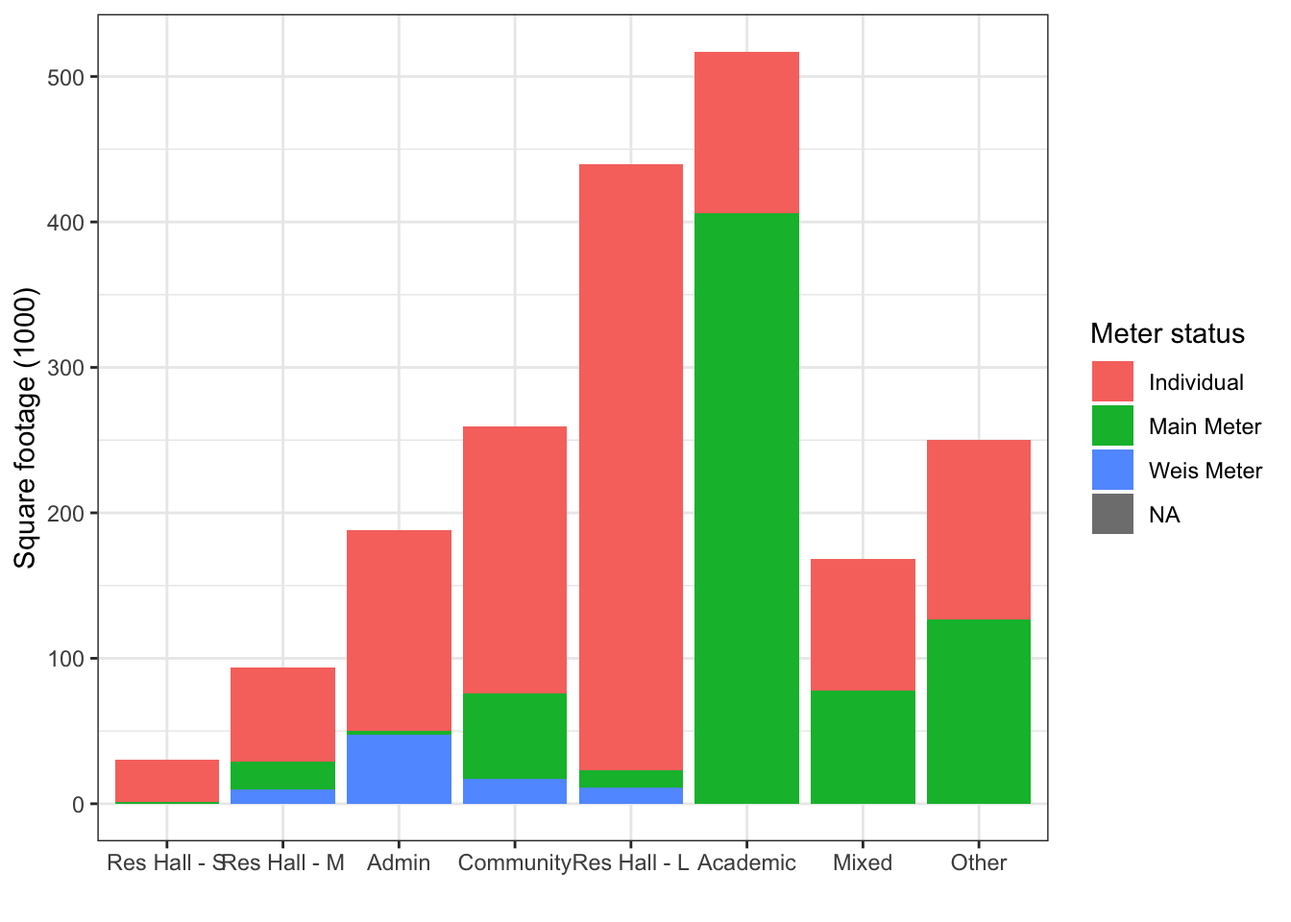
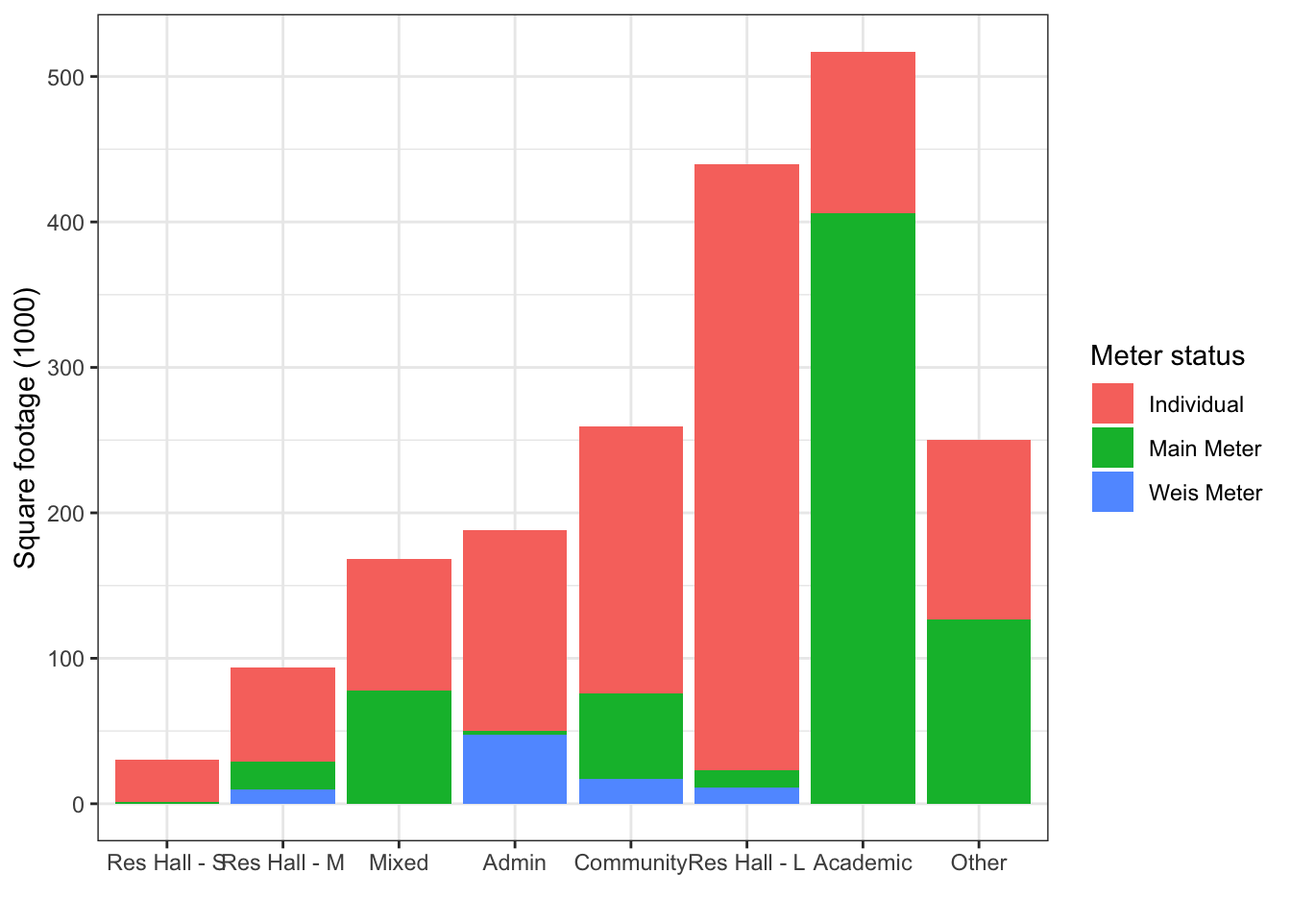
update script to fix issues

diff --git a/docs/data_wrangling_final.html b/docs/data_wrangling_final.html
@@ -525,15 +525,15 @@ project makes it easier to run your code on other machines.</p>
 <div class="panel panel-default">
 <div class="panel-heading">
 <p class="panel-title">
-<a data-toggle="collapse" data-parent="#workflowr-checks" href="#strongRepositoryversionstrongahrefhttpsgithubcommaggiedouglasdickinsonpowertree2791892fbfbb8aa7b2016d98a84effa0bb848813targetblank2791892a">
+<a data-toggle="collapse" data-parent="#workflowr-checks" href="#strongRepositoryversionstrongahrefhttpsgithubcommaggiedouglasdickinsonpowertree2fef6499ccab67994d59850bfe4a806a58283172targetblank2fef649a">
 <span class="glyphicon glyphicon-ok text-success"
 aria-hidden="true"></span> <strong>Repository version:</strong>
-<a href="https://github.com/maggiedouglas/dickinson_power/tree/2791892fbfbb8aa7b2016d98a84effa0bb848813" target="_blank">2791892</a>
+<a href="https://github.com/maggiedouglas/dickinson_power/tree/2fef6499ccab67994d59850bfe4a806a58283172" target="_blank">2fef649</a>
 </a>
 </p>
 </div>
 <div
[2 lines of base64/hex data omitted]
 class="panel-collapse collapse">
 <div class="panel-body">
 <p>
@@ -543,7 +543,7 @@ reproducibility.
 </p>
 <p>
 The results in this page were generated with repository version
-<a href="https://github.com/maggiedouglas/dickinson_power/tree/2791892fbfbb8aa7b2016d98a84effa0bb848813" target="_blank">2791892</a>.
+<a href="https://github.com/maggiedouglas/dickinson_power/tree/2fef6499ccab67994d59850bfe4a806a58283172" target="_blank">2fef649</a>.
 See the <em>Past versions</em> tab to see a history of the changes made
 to the R Markdown and HTML files.
 </p>
@@ -561,15 +561,12 @@ Ignored files:
     Ignored:    .DS_Store
     Ignored:    .Rhistory
     Ignored:    .Rproj.user/
-    Ignored:    data/.DS_Store
     Ignored:    data/FY25 Main Meter Data.xlsx
     Ignored:    data/building_list_FY25_updated.xlsx
     Ignored:    data/graph_data_life_exp.csv
-    Ignored:    keys/.DS_Store
-    Ignored:    output/annual_kwh.csv
+    Ignored:    output/.DS_Store
     Ignored:    output/building_check.csv
     Ignored:    output/building_check.xlsx
-    Ignored:    output/daily_kwh.csv
     Ignored:    output/kwh_annual.csv
     Ignored:    output/kwh_daily.csv
     Ignored:    output/kwh_main_annual.csv
@@ -577,8 +574,7 @@ Ignored files:
 
 Unstaged changes:
     Modified:   analysis/data_wrangling_final.Rmd
-    Modified:   keys/fy25_building_list_updated.csv
-    Modified:   keys/meter_building_key.csv
+    Modified:   keys/housing_counts.csv
 
 </code></pre>
 <p>
@@ -624,6 +620,40 @@ Message
 </tr>
 </thead>
 <tbody>
+<tr>
+<td>
+Rmd
+</td>
+<td>
+<a href="https://github.com/maggiedouglas/dickinson_power/blob/2fef6499ccab67994d59850bfe4a806a58283172/analysis/data_wrangling_final.Rmd" target="_blank">2fef649</a>
+</td>
+<td>
+maggiedouglas
+</td>
+<td>
+2026-02-24
+</td>
+<td>
+updated to integrate individual meter data
+</td>
+</tr>
+<tr>
+<td>
+html
+</td>
+<td>
+<a href="https://rawcdn.githack.com/maggiedouglas/dickinson_power/2fef6499ccab67994d59850bfe4a806a58283172/docs/data_wrangling_final.html" target="_blank">2fef649</a>
+</td>
+<td>
+maggiedouglas
+</td>
+<td>
+2026-02-24
+</td>
+<td>
+updated to integrate individual meter data
+</td>
+</tr>
 <tr>
 <td>
 Rmd
@@ -848,8 +878,8 @@ associated GHG emissions</li>
 <pre><code>── Attaching core tidyverse packages ──────────────────────── tidyverse 2.0.0 ──
 ✔ dplyr     1.1.4     ✔ readr     2.1.5
 ✔ forcats   1.0.0     ✔ stringr   1.5.1
-✔ ggplot2   3.5.1     ✔ tibble    3.2.1
-✔ lubridate 1.9.3     ✔ tidyr     1.3.1
+✔ ggplot2   3.5.0     ✔ tibble    3.2.1
+✔ lubridate 1.9.3     ✔ tidyr     1.3.0
 ✔ purrr     1.0.2     
 ── Conflicts ────────────────────────────────────────── tidyverse_conflicts() ──
 ✖ dplyr::filter() masks stats::filter()
@@ -884,10 +914,10 @@ occu_agg &lt;- occupants %&gt;%
   mutate(sem_yr = paste(semester, year)) %&gt;%
   filter(sem_yr %in% c(&quot;Fall 2024&quot;, &quot;Spring 2025&quot;)) %&gt;%
   group_by(NAME, sem_yr) %&gt;%
-  summarize(occupants = sum(occupants),
+  summarize(occupants = sum(occupants, na.rm = T),
             n = n()) %&gt;%
   group_by(NAME) %&gt;%
-  summarize(occupants = mean(occupants))</code></pre>
+  summarize(occupants = mean(occupants, na.rm = T))</code></pre>
 <pre><code>`summarise()` has grouped output by &#39;NAME&#39;. You can override using the
 `.groups` argument.</code></pre>
 <pre class="r"><code># store annual totals for kWh
@@ -994,7 +1024,7 @@ buildings_sum &lt;- buildings %&gt;%
 <pre class="r"><code>joined &lt;- kwh_annual %&gt;%
   left_join(key, by = &quot;meter_origin&quot;) %&gt;% # join to key to match meters to building names
   full_join(buildings_clean, by = &quot;NAME&quot;, relationship = &quot;many-to-one&quot;) %&gt;% # join to building info by name
-  filter(!meter %in% c(&quot;Main Meter&quot;, &quot;Weis Meter&quot;)) %&gt;% # filter out those on main or Weis meter (not disagg)
+  filter(!meter %in% c(&quot;Main Meter&quot;, &quot;Weis Meter&quot;)) %&gt;% # filter out those on main or Weis meter (not disagg or total)
   group_by(type_new, NAME, days_perc, meter) %&gt;% # group by building
   summarize(kwh = sum(kwh, na.rm = T), # sum kwh by building
             sqft = mean(sqft, na.rm = T)) %&gt;% # take mean to preserve sqft data
@@ -1007,7 +1037,7 @@ buildings_sum &lt;- buildings %&gt;%
          type = type_new) %&gt;% 
   ungroup() %&gt;%
   mutate_all(~ifelse(is.nan(.), NA, .)) %&gt;%
-  select(type, meter, NAME, days_perc, kwh, kwh_sqft, kwh_person, dollars, ghg_kgCO2)</code></pre>
+  select(type, meter, NAME, days_perc, kwh, sqft, kwh_sqft, occupants, kwh_person, dollars, ghg_kgCO2)</code></pre>
 <pre><code>`summarise()` has grouped output by &#39;type_new&#39;, &#39;NAME&#39;, &#39;days_perc&#39;. You can
 override using the `.groups` argument.</code></pre>
 <pre class="r"><code>joined_sub &lt;- kwh_sub_annual %&gt;%
@@ -1025,7 +1055,7 @@ override using the `.groups` argument.</code></pre>
          type = type_new) %&gt;% 
   ungroup() %&gt;%
   mutate_all(~ifelse(is.nan(.), NA, .)) %&gt;%
-  select(type, meter, NAME, days_perc, kwh, kwh_sqft, kwh_person, dollars, ghg_kgCO2)</code></pre>
+  select(type, meter, NAME, days_perc, kwh, sqft, kwh_sqft, occupants, kwh_person, dollars, ghg_kgCO2)</code></pre>
 <pre><code>`summarise()` has grouped output by &#39;type_new&#39;, &#39;NAME&#39;, &#39;days_perc&#39;. You can
 override using the `.groups` argument.</code></pre>
 <pre class="r"><code>joined_full &lt;- rbind(joined, joined_sub)
@@ -1037,6 +1067,7 @@ joined_cat &lt;- joined_full %&gt;%
             kwh = sum(kwh),
             dollars = sum(dollars),
             ghg_kgCO2 = sum(ghg_kgCO2),
+            sqft = sum(sqft, na.rm = T),
             med_kwh_sqft = median(kwh_sqft, na.rm = T),
             kwh_sqft_25 = quantile(kwh_sqft, .25, na.rm = T),
             kwh_sqft_75 = quantile(kwh_sqft, .75, na.rm = T)) %&gt;%
@@ -1052,11 +1083,11 @@ joined_cat &lt;- joined_full %&gt;%
   summarize(kwh = sum(total_kwh, na.rm = T),
             sqft = mean(sqft, na.rm = T),
             ave_temp = mean(ave_temp, na.rm = T)) %&gt;%
+  left_join(occu_agg, by = &quot;NAME&quot;) %&gt;%
   filter(!is.na(type_new)) %&gt;%
-  mutate(kwh_sqft = kwh/sqft, # calculate kwh per sqft
-         type = type_new) %&gt;% 
+  mutate(type = type_new) %&gt;% 
   ungroup() %&gt;%
-  select(-type_new) %&gt;%
+  select(type, NAME, date, ave_temp, kwh, sqft, occupants) %&gt;%
   mutate_all(~ifelse(is.nan(.), NA, .)) # convert NaN to NA</code></pre>
 <pre><code>Warning in left_join(., key, by = &quot;meter_origin&quot;): Detected an unexpected many-to-many relationship between `x` and `y`.
 ℹ Row 14881 of `x` matches multiple rows in `y`.
@@ -1072,11 +1103,11 @@ the `.groups` argument.</code></pre>
   summarize(kwh = sum(kwh, na.rm = T),
             sqft = mean(sqft, na.rm = T),
             ave_temp = mean(ave_temp, na.rm = T)) %&gt;%
+  left_join(occu_agg, by = &quot;NAME&quot;) %&gt;%
   filter(!is.na(type_new)) %&gt;%
-  mutate(kwh_sqft = kwh/sqft, # calculate kwh per sqft
-         type = type_new) %&gt;% 
+  mutate(type = type_new) %&gt;% 
   ungroup() %&gt;%
-  select(-type_new) %&gt;%
+  select(type, NAME, date, ave_temp, kwh, sqft, occupants) %&gt;%
   mutate_all(~ifelse(is.nan(.), NA, .)) # convert NaN to NA</code></pre>
 <pre><code>`summarise()` has grouped output by &#39;type_new&#39;, &#39;NAME&#39;. You can override using
 the `.groups` argument.</code></pre>
@@ -1085,26 +1116,30 @@ the `.groups` argument.</code></pre>
 </div>
 <div id="summary-table" class="section level2">
 <h2>Summary table</h2>
-<pre class="r"><code>joined_pretty &lt;- joined_full %&gt;%
-  mutate(kwh = round(kwh, digits = 0),
+<pre class="r"><code>joined_pretty_cat &lt;- joined_cat %&gt;%
+  mutate(n = ifelse(n == 1, &quot;-&quot;, n),
+         kwh = round(kwh, digits = 0),
          dollars = paste(&quot;$&quot;,round(dollars, digits = 0)),
-         kwh_sqft = round(kwh_sqft, digits = 1),
-         kwh_person = round(kwh_person, digits = 0),
-         days_perc = round(days_perc, digits = 0)) %&gt;%
-  select(type, NAME, kwh, dollars, kwh_sqft, kwh_person, days_perc) %&gt;% 
-  arrange(desc(kwh))
-
-datatable(joined_pretty,
+         ghg_MTCO2 = round(ghg_kgCO2/1000, digits = 0),
+         sqft = round(sqft, digits = 0),
+         med_kwh_sqft = round(med_kwh_sqft, digits = 1),
+         kwh_sqft_25 = ifelse(n == 1, &quot;-&quot;, round(kwh_sqft_25, digits = 1)),
+         kwh_sqft_75 = ifelse(n == 1, &quot;-&quot;, round(kwh_sqft_75, digits = 1))) %&gt;%
+    select(type, n, kwh, dollars, ghg_MTCO2, sqft, med_kwh_sqft, kwh_sqft_25, kwh_sqft_75) %&gt;% 
+  arrange(desc(kwh))</code></pre>
+<pre class="r"><code>datatable(joined_pretty_cat,
           filter = &#39;top&#39;,
           rownames = FALSE,
-          colnames = c(&quot;Building\ntype&quot;,&quot;Name&quot;,&quot;kWh&quot;, &quot;Est cost&quot;, &quot;kWh\nper sqft&quot;,
-                       &quot;kWh\nper person&quot;,&quot;Days of\ndata (%)&quot;))</code></pre>
+          colnames = c(&quot;Building\ntype&quot;,&quot;Buildings\nwith data&quot;, &quot;kWh&quot;, &quot;Est. cost&quot;, 
+                       &quot;CO2e\n(MT)&quot;, &quot;Square\nfootage&quot;, &quot;Median\nkWh\nper sqft&quot;,
+                       &quot;25th Perc.&quot;, &quot;75th Perc.&quot;),
+          caption = &quot;Table 1. Descriptive statistics for annual electricity use by building type.&quot;)</code></pre>
 <div class="datatables html-widget html-fill-item" id="htmlwidget-1d485ada9b99fcfe0617" style="width:100%;height:auto;"></div>
-<script type="application/json" data-for="htmlwidget-1d485ada9b99fcfe0617">{"x":{"filter":"top","vertical":false,"filterHTML":"<tr>\n  <td data-type=\"character\" style=\"vertical-align: top;\">\n    <div class=\"form-group has-feedback\" style=\"margin-bottom: auto;\">\n      <input type=\"search\" placeholder=\"All\" class=\"form-control\" style=\"width: 100%;\"/>\n      <span class=\"glyphicon glyphicon-remove-circle form-control-feedback\"><\/span>\n    <\/div>\n  <\/td>\n  <td data-type=\"character\" style=\"vertical-align: top;\">\n    <div class=\"form-group has-feedback\" style=\"margin-bottom: auto;\">\n      <input type=\"search\" placeholder=\"All\" class=\"form-control\" style=\"width: 100%;\"/>\n      <span class=\"glyphicon glyphicon-remove-circle form-control-feedback\"><\/span>\n    <\/div>\n  <\/td>\n  <td data-type=\"number\" style=\"vertical-align: top;\">\n    <div class=\"form-group has-feedback\" style=\"margin-bottom: auto;\">\n      <input type=\"search\" placeholder=\"All\" class=\"form-control\" style=\"width: 100%;\"/>\n      <span class=\"glyphicon glyphicon-remove-circle form-control-feedback\"><\/span>\n    <\/div>\n    <div style=\"display: none;position: absolute;width: 200px;opacity: 1\">\n      <div data-min=\"0\" data-max=\"11648808\"><\/div>\n      <span style=\"float: left;\"><\/span>\n      <span style=\"float: right;\"><\/span>\n    <\/div>\n  <\/td>\n  <td data-type=\"character\" style=\"vertical-align: top;\">\n    <div class=\"form-group has-feedback\" style=\"margin-bottom: auto;\">\n      <input type=\"search\" placeholder=\"All\" class=\"form-control\" style=\"width: 100%;\"/>\n      <span class=\"glyphicon glyphicon-remove-circle form-control-feedback\"><\/span>\n    <\/div>\n  <\/td>\n  <td data-type=\"number\" style=\"vertical-align: top;\">\n    <div class=\"form-group has-feedback\" style=\"margin-bottom: auto;\">\n      <input type=\"search\" placeholder=\"All\" class=\"form-control\" style=\"width: 100%;\"/>\n      <span class=\"glyphicon glyphicon-remove-circle form-control-feedback\"><\/span>\n    <\/div>\n    <div style=\"display: none;position: absolute;width: 200px;opacity: 1\">\n      <div data-min=\"0\" data-max=\"23.5\" data-scale=\"1\"><\/div>\n      <span style=\"float: left;\"><\/span>\n      <span style=\"float: right;\"><\/span>\n    <\/div>\n  <\/td>\n  <td data-type=\"number\" style=\"vertical-align: top;\">\n    <div class=\"form-group has-feedback\" style=\"margin-bottom: auto;\">\n      <input type=\"search\" placeholder=\"All\" class=\"form-control\" style=\"width: 100%;\"/>\n      <span class=\"glyphicon glyphicon-remove-circle form-control-feedback\"><\/span>\n    <\/div>\n    <div style=\"display: none;position: absolute;width: 200px;opacity: 1\">\n      <div data-min=\"725\" data-max=\"6641\"><\/div>\n      <span style=\"float: left;\"><\/span>\n      <span style=\"float: right;\"><\/span>\n    <\/div>\n  <\/td>\n  <td data-type=\"number\" style=\"vertical-align: top;\">\n    <div class=\"form-group has-feedback\" style=\"margin-bottom: auto;\">\n      <input type=\"search\" placeholder=\"All\" class=\"form-control\" style=\"width: 100%;\"/>\n      <span class=\"glyphicon glyphicon-remove-circle form-control-feedback\"><\/span>\n    <\/div>\n    <div style=\"display: none;position: absolute;width: 200px;opacity: 1\">\n      <div data-min=\"37\" data-max=\"100\"><\/div>\n      <span style=\"float: left;\"><\/span>\n      <span style=\"float: right;\"><\/span>\n    <\/div>\n  <\/td>\n<\/tr>","data":[["Main Meter","Weis Meter","Academic","Academic","Admin","Mixed","Other","Other","Res Hall - L","Other","Res Hall - L","Res Hall - L","Res Hall - L","Res Hall - L","Res Hall - L","Res Hall - L","Res Hall - L","Res Hall - L","Res Hall - L","Academic","Res Hall - L","Academic","Academic","Admin","Res Hall - L","Non-building","Community","Community","Admin","Other","Res Hall - M","Res Hall - M","Res Hall - U","Res Hall - L","Res Hall - L","Res Hall - L","Res Hall - L","Res Hall - L","Other","Res Hall - L","Community","Res Hall - L","Academic","Res Hall - M","Other","Community","Res Hall - M","Academic","Other","Res Hall - M","Academic","Other","Res Hall - M","Community","Res Hall - S","Res Hall - S","Res Hall - M","Res Hall - M","Res Hall - M","Res Hall - U","Res Hall - S","Res Hall - M","Res Hall - M","Community","Res Hall - U","Res Hall - S","Res Hall - M","Other","Academic","Res Hall - M","Other","Academic","Res Hall - S","Res Hall - M","Res Hall - S","Other","Admin","Res Hall - S","Res Hall - S","Res Hall - S","Res Hall - S","Res Hall - S","Res Hall - S","Res Hall - S","Academic","Other","Admin","Res Hall - U","Res Hall - S","Res Hall - S","Res Hall - S","Admin","Res Hall - S","Res Hall - S","Res Hall - U","Non-building","Res Hall - U","Other","Res Hall - U","Res Hall - S","Non-building","Other","Non-building","Other","Other"],["Main Meter","Weis Meter","Waidner Spahr Library","Rector Science Center","5 N. Orange St. - Facilities","Goodyear + Goodyear Arts Studio","Kline Life Sport Complex","Biddle Press Box, Restrooms, Durden ATC","Kisner - Woodward","5 N. Orange St. - CPYB/SHARE","Drayer Hall","Morgan Hall","High Street Residence Hall","Adams","Factory Apts.","27 W. High St.","McKenney Hall","Malcolm Hall","Baird McClintock / Quad 4-5","Althouse","Davidson Wilson / Quad 9-10","Bosler","Stern Center","50 Mooreland Ave.","Witwer Hall","Pump system (athletics)","Allison Church","Quarry, The ","Old West","King House","141 W. High St.","100 S. West St.","152 W. Louther St.","Armstrong / Quad 8","Atwater / Quad 7","Buchanan / Quad 2","Conway / Quad 1","Longsdorff / Quad 6","25 Pomfret St (15, 16)","Matthews House","DCCC","Spradley-Young  / Quad 3","Montgomery House","Reed Apts.","49 W. High (1, 2, 3)","President's House (New)","159 W. High St.","Carlisle Theatre","Wentzel","Treehouse","Green Valley Sanctuary","119 W. High St. (1, 2, 3)","Cherry Apts","Holland Union Bldg.","135 N. College St.","139 N. College St.","146 W. Louther St.","Strayer House","133 N. College St.","154 W. Louther St. (1)","49 S. College St./51 S. College St.","163 W. High St","Vincett House","Landis House","23 W. High St.","135 Cedar St.","165 W. High St","344 W. North St.","57 S. College","Schuman House","Kade House","162-164  Dickinson Ave.","507 W. Louther St.","155 W. High St.","505 W. Louther St.","50 Wilson Street","554 W. Louther St.","519 W. Louther St.","417 W. Louther St.","513 W. Louther St.","529 W. Louther St.","531 W. Louther St.","425 W. Louther St.","509 W. Louther St.","46 S. West St.","362 W. North S.","41 Conway St.","133 W. High St. (2, 5)","2 Conway St.","521 W. Louther St.","527 W. Louther St.","556 W. Louther St.","538 W. Louther St.","515 W. Louther St.","133 W. High St. (2, 5)","Stadium Lights","19-21 W. High St.","368 W. North","19-21 W. High St.","Carriage House","Crosswalk on N. West St.","155 W. High St., Ground Floor","Scoreboard","Boiling Springs Cottage","Boiling Springs Farm"],[11648808,973320,826621,777550,567745,512614,326088,298475,286667,277590,269502,247869,234938,223957,222053,220896,170470,158463,132958,129570,123812,121996,108235,95137,88635,88262,77578,73472,72757,64445,60837,54882,53130,52679,49681,47808,45533,43677,42473,40566,39786,39471,38225,31914,30832,30585,29252,29070,22830,21775,21575,19990,19464,19219,18531,18531,18467,18275,17555,16662,15611,14863,14797,14429,14266,13830,12690,12407,12221,10946,10487,9217,8965,8851,8772,8693,8520,8294,8115,7910,7663,7374,7326,7070,6493,6482,6277,5886,5543,5082,4998,4986,4578,4352,3587,3423,3219,3151,1995,1952,1198,1068,1,0,0],["$ 948039","$ 79214","$ 67275","$ 63281","$ 46206","$ 41719","$ 26539","$ 24291","$ 23330","$ 22592","$ 21933","$ 20173","$ 19120","$ 18227","$ 18072","$ 17978","$ 13874","$ 12897","$ 10821","$ 10545","$ 10076","$ 9929","$ 8809","$ 7743","$ 7214","$ 7183","$ 6314","$ 5980","$ 5921","$ 5245","$ 4951","$ 4467","$ 4324","$ 4287","$ 4043","$ 3891","$ 3706","$ 3555","$ 3457","$ 3301","$ 3238","$ 3212","$ 3111","$ 2597","$ 2509","$ 2489","$ 2381","$ 2366","$ 1858","$ 1772","$ 1756","$ 1627","$ 1584","$ 1564","$ 1508","$ 1508","$ 1503","$ 1487","$ 1429","$ 1356","$ 1271","$ 1210","$ 1204","$ 1174","$ 1161","$ 1126","$ 1033","$ 1010","$ 995","$ 891","$ 854","$ 750","$ 730","$ 720","$ 714","$ 708","$ 693","$ 675","$ 660","$ 644","$ 624","$ 600","$ 596","$ 575","$ 528","$ 527","$ 511","$ 479","$ 451","$ 414","$ 407","$ 406","$ 373","$ 354","$ 292","$ 279","$ 262","$ 256","$ 162","$ 159","$ 97","$ 87","$ 0","$ 0","$ 0"],[10.4,11.4,6.9,6.9,7.6,5.7,2.6,12,12.5,6.5,5.5,6.2,5.6,4.7,17.1,18.8,9,7.8,5.1,4.4,4,3.6,4.9,3.5,4.8,null,2.3,10.7,2.4,23.5,10.4,7.6,null,4.9,4.6,4.5,4.2,4.1,null,3.5,3.7,3.7,3.5,6.1,10.3,4.9,6.5,7.3,0.9,3.6,8.6,8.9,5.5,0.2,12.6,10.7,6.4,2.7,7.7,null,5.2,3.3,5.5,1.8,null,7.3,2.8,7.8,2.7,2.5,5.8,3.7,6,2.2,5.9,null,5.9,6.2,5.6,5.2,5.7,4.5,5.6,4.6,3.7,5.8,2.9,null,3.2,3.5,4,2.5,3.8,3.4,null,null,null,3.2,null,2.7,null,2.1,null,0,0],[null,null,null,null,null,null,null,null,null,null,1679,1758,1974,1387,4270,5454,null,null,1203,null,1032,null,null,null,1166,null,null,null,null,null,3042,2889,6641,1368,1258,1226,1047,1134,null,1726,null,null,null,1680,null,null,1625,null,null,null,null,null,1622,null,4633,4633,2638,null,3511,4166,null,1239,null,null,1783,3457,1154,null,null,null,null,null,1793,1475,1754,null,null,2074,1623,1582,1533,1229,2093,1414,null,null,null,1308,1386,847,1250,null,1526,725,797,null,2146,null,1330,null,null,null,null,null,null],[100,100,37,37,100,100,37,100,93,100,100,100,100,100,100,100,93,100,93,93,93,93,93,100,100,100,100,93,93,100,100,100,95,93,93,93,93,93,95,100,100,93,93,100,100,100,100,100,100,100,100,100,100,93,100,100,100,100,100,79,100,100,100,100,95,100,100,100,100,100,100,100,100,100,100,95,100,100,100,100,100,100,100,100,100,100,100,95,100,100,100,100,100,100,95,100,95,100,88,100,100,100,100,null,null]],"container":"<table class=\"display\">\n  <thead>\n    <tr>\n      <th>Building\ntype<\/th>\n      <th>Name<\/th>\n      <th>kWh<\/th>\n      <th>Est cost<\/th>\n      <th>kWh\nper sqft<\/th>\n      <th>kWh\nper person<\/th>\n      <th>Days of\ndata (%)<\/th>\n    <\/tr>\n  <\/thead>\n<\/table>","options":{"columnDefs":[{"className":"dt-right","targets":[2,4,5,6]},{"name":"type","targets":0},{"name":"NAME","targets":1},{"name":"kwh","targets":2},{"name":"dollars","targets":3},{"name":"kwh_sqft","targets":4},{"name":"kwh_person","targets":5},{"name":"days_perc","targets":6}],"order":[],"autoWidth":false,"orderClasses":false,"orderCellsTop":true}},"evals":[],"jsHooks":[]}</script>
+<script type="application/json" data-for="htmlwidget-1d485ada9b99fcfe0617">{"x":{"filter":"top","vertical":false,"filterHTML":"<tr>\n  <td data-type=\"character\" style=\"vertical-align: top;\">\n    <div class=\"form-group has-feedback\" style=\"margin-bottom: auto;\">\n      <input type=\"search\" placeholder=\"All\" class=\"form-control\" style=\"width: 100%;\"/>\n      <span class=\"glyphicon glyphicon-remove-circle form-control-feedback\"><\/span>\n    <\/div>\n  <\/td>\n  <td data-type=\"character\" style=\"vertical-align: top;\">\n    <div class=\"form-group has-feedback\" style=\"margin-bottom: auto;\">\n      <input type=\"search\" placeholder=\"All\" class=\"form-control\" style=\"width: 100%;\"/>\n      <span class=\"glyphicon glyphicon-remove-circle form-control-feedback\"><\/span>\n    <\/div>\n  <\/td>\n  <td data-type=\"number\" style=\"vertical-align: top;\">\n    <div class=\"form-group has-feedback\" style=\"margin-bottom: auto;\">\n      <input type=\"search\" placeholder=\"All\" class=\"form-control\" style=\"width: 100%;\"/>\n      <span class=\"glyphicon glyphicon-remove-circle form-control-feedback\"><\/span>\n    <\/div>\n    <div style=\"display: none;position: absolute;width: 200px;opacity: 1\">\n      <div data-min=\"92882\" data-max=\"11648808\"><\/div>\n      <span style=\"float: left;\"><\/span>\n      <span style=\"float: right;\"><\/span>\n    <\/div>\n  <\/td>\n  <td data-type=\"character\" style=\"vertical-align: top;\">\n    <div class=\"form-group has-feedback\" style=\"margin-bottom: auto;\">\n      <input type=\"search\" placeholder=\"All\" class=\"form-control\" style=\"width: 100%;\"/>\n      <span class=\"glyphicon glyphicon-remove-circle form-control-feedback\"><\/span>\n    <\/div>\n  <\/td>\n  <td data-type=\"number\" style=\"vertical-align: top;\">\n    <div class=\"form-group has-feedback\" style=\"margin-bottom: auto;\">\n      <input type=\"search\" placeholder=\"All\" class=\"form-control\" style=\"width: 100%;\"/>\n      <span class=\"glyphicon glyphicon-remove-circle form-control-feedback\"><\/span>\n    <\/div>\n    <div style=\"display: none;position: absolute;width: 200px;opacity: 1\">\n      <div data-min=\"28\" data-max=\"3504\"><\/div>\n      <span style=\"float: left;\"><\/span>\n      <span style=\"float: right;\"><\/span>\n    <\/div>\n  <\/td>\n  <td data-type=\"number\" style=\"vertical-align: top;\">\n    <div class=\"form-group has-feedback\" style=\"margin-bottom: auto;\">\n      <input type=\"search\" placeholder=\"All\" class=\"form-control\" style=\"width: 100%;\"/>\n      <span class=\"glyphicon glyphicon-remove-circle form-control-feedback\"><\/span>\n    <\/div>\n    <div style=\"display: none;position: absolute;width: 200px;opacity: 1\">\n      <div data-min=\"0\" data-max=\"1119435\"><\/div>\n      <span style=\"float: left;\"><\/span>\n      <span style=\"float: right;\"><\/span>\n    <\/div>\n  <\/td>\n  <td data-type=\"number\" style=\"vertical-align: top;\">\n    <div class=\"form-group has-feedback\" style=\"margin-bottom: auto;\">\n      <input type=\"search\" placeholder=\"All\" class=\"form-control\" style=\"width: 100%;\"/>\n      <span class=\"glyphicon glyphicon-remove-circle form-control-feedback\"><\/span>\n    <\/div>\n    <div style=\"display: none;position: absolute;width: 200px;opacity: 1\">\n      <div data-min=\"3\" data-max=\"11.4\" data-scale=\"1\"><\/div>\n      <span style=\"float: left;\"><\/span>\n      <span style=\"float: right;\"><\/span>\n    <\/div>\n  <\/td>\n  <td data-type=\"number\" style=\"vertical-align: top;\">\n    <div class=\"form-group has-feedback\" style=\"margin-bottom: auto;\">\n      <input type=\"search\" placeholder=\"All\" class=\"form-control\" style=\"width: 100%;\"/>\n      <span class=\"glyphicon glyphicon-remove-circle form-control-feedback\"><\/span>\n    <\/div>\n    <div style=\"display: none;position: absolute;width: 200px;opacity: 1\">\n      <div data-min=\"1.9\" data-max=\"11.4\" data-scale=\"1\"><\/div>\n      <span style=\"float: left;\"><\/span>\n      <span style=\"float: right;\"><\/span>\n    <\/div>\n  <\/td>\n  <td data-type=\"number\" style=\"vertical-align: top;\">\n    <div class=\"form-group has-feedback\" style=\"margin-bottom: auto;\">\n      <input type=\"search\" placeholder=\"All\" class=\"form-control\" style=\"width: 100%;\"/>\n      <span class=\"glyphicon glyphicon-remove-circle form-control-feedback\"><\/span>\n    <\/div>\n    <div style=\"display: none;position: absolute;width: 200px;opacity: 1\">\n      <div data-min=\"4.6\" data-max=\"11.4\" data-scale=\"1\"><\/div>\n      <span style=\"float: left;\"><\/span>\n      <span style=\"float: right;\"><\/span>\n    <\/div>\n  <\/td>\n<\/tr>","caption":"<caption>Table 1. Descriptive statistics for annual electricity use by building type.<\/caption>","data":[["Main Meter","Res Hall - L","Academic","Other","Weis Meter","Admin","Mixed","Res Hall - M","Community","Res Hall - S","Res Hall - U","Non-building"],["-","19","11","16","-","6","-","14","6","19","7","4"],[11648808,2699635,2080772,1125011,973320,755422,512614,334569,255069,164497,98745,92882],["$ 948039","$ 219710","$ 169344","$ 91559","$ 79214","$ 61480","$ 41719","$ 27229","$ 20759","$ 13388","$ 8036","$ 7559"],[3504,812,626,338,293,227,154,101,77,49,30,28],[1119435,417027,344015,247670,85725,137948,90000,64465,183672,28864,0,0],[10.4,4.9,4.4,5.8,11.4,3.2,5.7,5.5,3,5.2,null,null],[10.4,4.4,3.6,2.3,11.4,2.6,5.7,2.9,1.9,3.9,null,null],[10.4,7,6.9,8.6,11.4,5.3,5.7,6.5,4.6,5.9,null,null]],"container":"<table class=\"display\">\n  <thead>\n    <tr>\n      <th>Building\ntype<\/th>\n      <th>Buildings\nwith data<\/th>\n      <th>kWh<\/th>\n      <th>Est. cost<\/th>\n      <th>CO2e\n(MT)<\/th>\n      <th>Square\nfootage<\/th>\n      <th>Median\nkWh\nper sqft<\/th>\n      <th>25th Perc.<\/th>\n      <th>75th Perc.<\/th>\n    <\/tr>\n  <\/thead>\n<\/table>","options":{"columnDefs":[{"className":"dt-right","targets":[2,4,5,6,7,8]},{"name":"type","targets":0},{"name":"n","targets":1},{"name":"kwh","targets":2},{"name":"dollars","targets":3},{"name":"ghg_MTCO2","targets":4},{"name":"sqft","targets":5},{"name":"med_kwh_sqft","targets":6},{"name":"kwh_sqft_25","targets":7},{"name":"kwh_sqft_75","targets":8}],"order":[],"autoWidth":false,"orderClasses":false,"orderCellsTop":true}},"evals":[],"jsHooks":[]}</script>
 </div>
 <div id="summary-graph-by-meter-status" class="section level2">
 <h2>Summary graph by meter status</h2>
-<pre class="r"><code>ggplot(filter(buildings_sum, ! type_new %in% c(&quot;Res Hall - U&quot;,&quot;Non-building&quot;,&quot;Production&quot;)),
+<pre class="r"><code>ggplot(filter(buildings_sum, !is.na(meter) &amp; !type_new %in% c(&quot;Res Hall - U&quot;,&quot;Non-building&quot;,&quot;Production&quot;)),
        aes(x = reorder(type_new, sqft, FUN = &quot;sum&quot;), y = sqft/1000, fill = meter)) +
   geom_col(position = &quot;stack&quot;) +
   theme_bw() +
@@ -1132,6 +1167,17 @@ Date
 </tr>
 </thead>
 <tbody>
+<tr>
+<td>
+<a href="https://github.com/maggiedouglas/dickinson_power/blob/2fef6499ccab67994d59850bfe4a806a58283172/docs/figure/data_wrangling_final.Rmd/graph meter-1.png" target="_blank">2fef649</a>
+</td>
+<td>
+maggiedouglas
+</td>
+<td>
+2026-02-24
+</td>
+</tr>
 <tr>
 <td>
 <a href="https://github.com/maggiedouglas/dickinson_power/blob/a379c87b9ecbf52640ebb4cde8ac0f4112ec0396/docs/figure/data_wrangling_final.Rmd/graph meter-1.png" target="_blank">a379c87</a>
@@ -1174,7 +1220,7 @@ Session information
 <pre class="r"><code>sessionInfo()</code></pre>
 <pre><code>R version 4.3.2 (2023-10-31)
 Platform: x86_64-apple-darwin20 (64-bit)
-Running under: macOS Ventura 13.7.8
+Running under: macOS Monterey 12.7.2
 
 Matrix products: default
 BLAS:   /Library/Frameworks/R.framework/Versions/4.3-x86_64/Resources/lib/libRblas.0.dylib 
@@ -1192,11 +1238,11 @@ attached base packages:
 other attached packages:
  [1] scales_1.3.0    DT_0.33         lubridate_1.9.3 forcats_1.0.0  
  [5] stringr_1.5.1   dplyr_1.1.4     purrr_1.0.2     readr_2.1.5    
- [9] tidyr_1.3.1     tibble_3.2.1    ggplot2_3.5.1   tidyverse_2.0.0
+ [9] tidyr_1.3.0     tibble_3.2.1    ggplot2_3.5.0   tidyverse_2.0.0
 
 loaded via a namespace (and not attached):
  [1] sass_0.4.8        utf8_1.2.4        generics_0.1.3    stringi_1.8.3    
- [5] hms_1.1.3         digest_0.6.37     magrittr_2.0.3    timechange_0.3.0 
+ [5] hms_1.1.3         digest_0.6.34     magrittr_2.0.3    timechange_0.3.0 
  [9] evaluate_0.23     grid_4.3.2        fastmap_1.1.1     rprojroot_2.0.4  
 [13] workflowr_1.7.1   jsonlite_1.8.8    whisker_0.4.1     promises_1.2.1   
 [17] fansi_1.0.6       crosstalk_1.2.1   jquerylib_0.1.4   cli_3.6.2        
@@ -1205,8 +1251,8 @@ loaded via a namespace (and not attached):
 [29] colorspace_2.1-0  httpuv_1.6.13     vctrs_0.6.5       R6_2.5.1         
 [33] lifecycle_1.0.4   git2r_0.33.0      htmlwidgets_1.6.4 fs_1.6.3         
 [37] pkgconfig_2.0.3   pillar_1.9.0      bslib_0.6.1       later_1.3.2      
-[41] gtable_0.3.4      glue_1.7.0        Rcpp_1.1.0        highr_0.10       
-[45] xfun_0.41         tidyselect_1.2.0  rstudioapi_0.16.0 knitr_1.45       
+[41] gtable_0.3.4      glue_1.7.0        Rcpp_1.0.12       highr_0.10       
+[45] xfun_0.41         tidyselect_1.2.0  rstudioapi_0.15.0 knitr_1.45       
 [49] farver_2.1.1      htmltools_0.5.7   labeling_0.4.3    rmarkdown_2.25   
 [53] compiler_4.3.2   </code></pre>
 </div>
